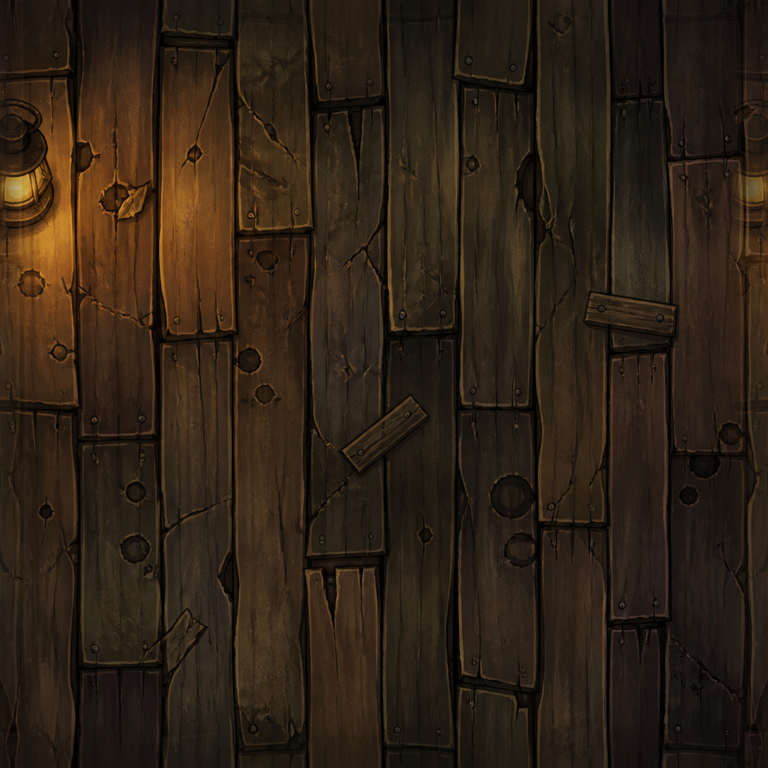
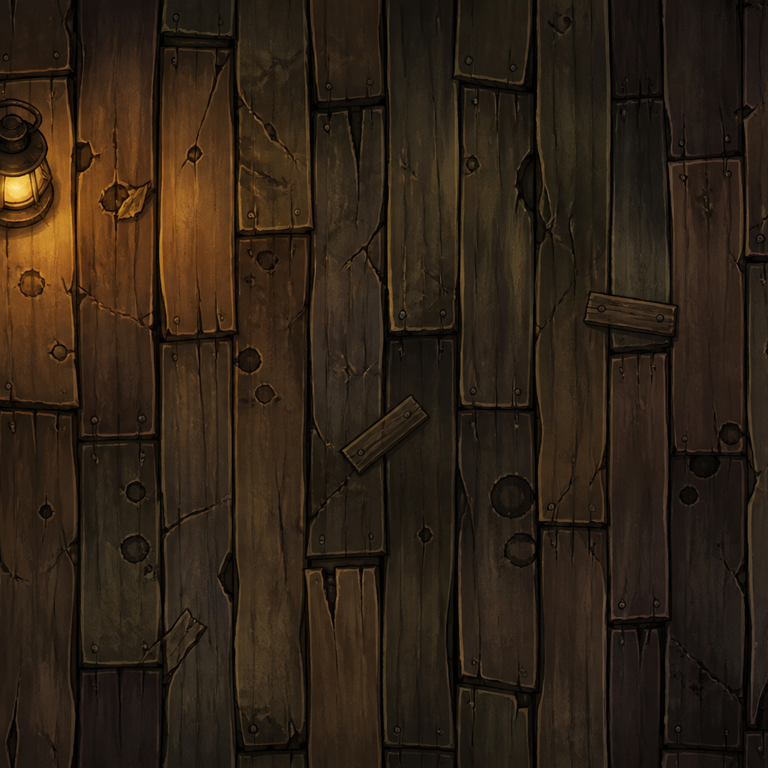
Lay water and path as whole sheets and drop the shore dots.
The river was still stamped per cell, and the bank used a row of
circles. Both read as a grid. Textures no longer mirror-blend.

Changed region(s): [[0.9375, 0.2188, 1.0, 0.4375], [0.0, 0.2188, 0.0625, 0.4375]]

diff --git a/src/scenes/draw.ts b/src/scenes/draw.ts
@@ -6,6 +6,7 @@ type Ctx = CanvasRenderingContext2D;
 
 export type Near = { n: string; s: string; e: string; w: string };
 export type DrawPart = "all" | "ground" | "prop";
+export type DrawSkip = { grass?: boolean; water?: boolean; path?: boolean };
 
 const FILL: Record<string, string> = {
   "#": "#2a1c16",
@@ -149,7 +150,7 @@ export function drawMeadow(g: Ctx, x: number, y: number, w: number, h: number): 
   return blitWrap(g, "grass", x, y, w, h);
 }
 
-function ground(g: Ctx, zone: string, ch: string, x: number, y: number, now: number, skipGrass = false): void {
+function ground(g: Ctx, zone: string, ch: string, x: number, y: number, now: number, skipGrass = false, skipPath = false): void {
   if (zone === "kitchen") {
     if (blitWrap(g, "wood", x, y, TILE, TILE)) {
       g.strokeStyle = "rgba(50,30,18,0.22)";
@@ -199,6 +200,7 @@ function ground(g: Ctx, zone: string, ch: string, x: number, y: number, now: num
     return;
   }
   if (ch === ",") {
+    if (skipPath) return;
     if (blitWrap(g, "path", x - 1, y - 1, TILE + 2, TILE + 2)) return;
     px(g, x, y, TILE, TILE, "#8a7a58");
     oval(g, x + 18, y + 18, 14, 6, "#7a6a48");
@@ -244,8 +246,8 @@ function water(g: Ctx, x: number, y: number, now: number): void {
   oval(g, x + 18, y + 17, 13, 6, `rgba(190,214,220,${pulse})`);
 }
 
-function dock(g: Ctx, x: number, y: number): void {
-  water(g, x, y, 0);
+function dock(g: Ctx, x: number, y: number, skipWater = false): void {
+  if (!skipWater) water(g, x, y, 0);
   if (blitFit(g, "dock", x - 10, y - 14, TILE + 20, TILE + 18)) return;
   px(g, x, y + 12, TILE, 16, "#6a4a28");
   g.strokeStyle = "#8a6a40";
@@ -570,9 +572,9 @@ export function drawPlot(g: Ctx, px0: number, py0: number, stage: number, seed?:
   oval(g, px0 + 24, py0 + 10, 4, 4, name.includes("姜") ? "#e8d080" : "#d4a24a");
 }
 
-function paintProp(g: Ctx, look: string, ch: string, x: number, y: number, now: number, zone: string, near?: Near): void {
+function paintProp(g: Ctx, look: string, ch: string, x: number, y: number, now: number, zone: string, near?: Near, skipWater = false): void {
   if (look === "tree") tree(g, x, y, ch === "t" || (zone === "wild" && ch === "T"), now);
-  else if (look === "dock") dock(g, x, y);
+  else if (look === "dock") dock(g, x, y, skipWater);
   else if (look === "fire") fire(g, x, y, now);
   else if (look === "cabin") cabin(g, x, y);
   else if (look === "inn") inn(g, x, y, ch === "I");
@@ -615,8 +617,9 @@ export function drawCell(
   zone = "valley",
   near?: Near,
   part: DrawPart = "all",
-  skipGrass = false,
+  skip: DrawSkip | boolean = {},
 ): void {
+  const flags: DrawSkip = typeof skip === "boolean" ? { grass: skip } : skip;
   g.imageSmoothingEnabled = true;
   if ("imageSmoothingQuality" in g) g.imageSmoothingQuality = "high";
   const look = tileLook(ch, zone);
@@ -631,22 +634,25 @@ export function drawCell(
     look === "water" ||
     look === "wall";
   if (part !== "prop") {
-    if (look === "water") water(g, x, y, now);
-    else if (look === "wall") wall(g, x, y, zone);
+    if (look === "water") {
+      if (!flags.water) water(g, x, y, now);
+    } else if (look === "wall") wall(g, x, y, zone);
     else if (look === "ground") px(g, x, y, TILE, TILE, fill || "#3d4a36");
     else if (floor) {
-      ground(g, zone, ch, x, y, now, skipGrass);
+      ground(g, zone, ch, x, y, now, !!flags.grass, !!flags.path);
       if (fill && fill !== cellFill(ch, zone)) {
         g.fillStyle = fill;
         g.globalAlpha = 0.2;
         g.fillRect(x, y, TILE, TILE);
         g.globalAlpha = 1;
       }
+    } else if (look === "dock" && flags.water) {
+      /* river sheet already covers the slip */
     } else {
-      ground(g, zone, look === "plot" ? "," : ".", x, y, now, skipGrass);
+      ground(g, zone, look === "plot" ? "," : ".", x, y, now, !!flags.grass, !!flags.path);
     }
   }
-  if (part !== "ground" && !floor && look !== "plot") paintProp(g, look, ch, x, y, now, zone, near);
+  if (part !== "ground" && !floor && look !== "plot") paintProp(g, look, ch, x, y, now, zone, near, !!flags.water);
 }
 
 function heldChip(name: string): string {
@@ -1023,14 +1029,14 @@ export interface FieldCluster {
   h: number;
 }
 
-export function plotClusters(rows: string[]): FieldCluster[] {
+export function fillClusters(rows: string[], ok: (ch: string) => boolean): FieldCluster[] {
   const seen = new Set<number>();
   const mw = rows[0]?.length ?? 0;
   const out: FieldCluster[] = [];
   for (let y = 0; y < rows.length; y++) {
     for (let x = 0; x < mw; x++) {
       const key = y * mw + x;
-      if (rows[y][x] !== "P" || seen.has(key)) continue;
+      if (!ok(rows[y][x]) || seen.has(key)) continue;
       const stack = [[x, y]];
       seen.add(key);
       let minX = x;
@@ -1052,7 +1058,7 @@ export function plotClusters(rows: string[]): FieldCluster[] {
           const nx = cx + dx;
           const ny = cy + dy;
           const nk = ny * mw + nx;
-          if (rows[ny]?.[nx] === "P" && !seen.has(nk)) {
+          if (ok(rows[ny]?.[nx] ?? "") && !seen.has(nk)) {
             seen.add(nk);
             stack.push([nx, ny]);
           }
@@ -1064,6 +1070,14 @@ export function plotClusters(rows: string[]): FieldCluster[] {
   return out;
 }
 
+export function plotClusters(rows: string[]): FieldCluster[] {
+  return fillClusters(rows, (ch) => ch === "P");
+}
+
+export function drawSheet(g: Ctx, name: string, c: FieldCluster): boolean {
+  return blitWrap(g, name, c.x * TILE - 1, c.y * TILE - 1, c.w * TILE + 2, c.h * TILE + 2);
+}
+
 export function drawField(g: Ctx, c: FieldCluster): void {
   const x = c.x * TILE;
   const y = c.y * TILE;
@@ -1071,16 +1085,16 @@ export function drawField(g: Ctx, c: FieldCluster): void {
   const h = c.h * TILE;
   g.save();
   g.beginPath();
-  g.roundRect(x + 1, y + 2, w - 2, h - 4, 8);
+  g.roundRect(x + 2, y + 3, w - 4, h - 6, 14);
   g.clip();
   for (let ty = 0; ty < c.h; ty++) {
     for (let tx = 0; tx < c.w; tx++) plotSoil(g, x + tx * TILE, y + ty * TILE);
   }
   g.restore();
-  g.strokeStyle = "rgba(30,18,10,0.32)";
+  g.strokeStyle = "rgba(30,18,10,0.22)";
   g.lineWidth = 2;
   g.beginPath();
-  g.roundRect(x + 1, y + 2, w - 2, h - 4, 8);
+  g.roundRect(x + 2, y + 3, w - 4, h - 6, 14);
   g.stroke();
 }
 
@@ -1097,56 +1111,31 @@ export function drawFringe(g: Ctx, ch: string, near: Near, x: number, y: number,
   const wash = (x0: number, y0: number, x1: number, y1: number, from: string) => {
     const grd = g.createLinearGradient(x0, y0, x1, y1);
     grd.addColorStop(0, from);
-    grd.addColorStop(0.55, from.replace(/[\d.]+\)$/, "0.12)"));
     grd.addColorStop(1, "rgba(0,0,0,0)");
     g.fillStyle = grd;
     g.fillRect(Math.min(x0, x1), Math.min(y0, y1), x0 === x1 ? TILE : Math.abs(x1 - x0), y0 === y1 ? TILE : Math.abs(y1 - y0));
   };
-  const scallop = (cx: number, cy: number, rx: number, ry: number, c: string) => oval(g, cx, cy, rx, ry, c);
   if (wet(look)) {
-    if (!wet(n)) {
-      wash(x, y, x, y + 20, "rgba(47,90,56,0.42)");
-      scallop(x + 8, y + 2, 11, 7, "rgba(47,90,56,0.22)");
-      scallop(x + 22, y + 3, 12, 8, "rgba(58,80,48,0.2)");
-    }
-    if (!wet(s)) {
-      wash(x, y + TILE, x, y + TILE - 20, "rgba(47,90,56,0.38)");
-      scallop(x + 10, y + 34, 12, 7, "rgba(47,90,56,0.2)");
-      scallop(x + 26, y + 33, 10, 6, "rgba(58,80,48,0.18)");
-    }
-    if (!wet(e)) wash(x + TILE, y, x + TILE - 18, y, "rgba(47,90,56,0.32)");
-    if (!wet(w)) wash(x, y, x + 18, y, "rgba(47,90,56,0.32)");
+    if (!wet(n)) wash(x, y, x, y + 18, "rgba(47,90,56,0.36)");
+    if (!wet(s)) wash(x, y + TILE, x, y + TILE - 18, "rgba(47,90,56,0.32)");
+    if (!wet(e)) wash(x + TILE, y, x + TILE - 16, y, "rgba(47,90,56,0.26)");
+    if (!wet(w)) wash(x, y, x + 16, y, "rgba(47,90,56,0.26)");
     void now;
     return;
   }
   if (look === "path" || look === "plot") {
-    if (n === "grass") wash(x, y, x, y + 14, "rgba(47,90,56,0.36)");
-    if (s === "grass") wash(x, y + TILE, x, y + TILE - 14, "rgba(47,90,56,0.36)");
-    if (w === "grass") wash(x, y, x + 14, y, "rgba(47,90,56,0.3)");
-    if (e === "grass") wash(x + TILE, y, x + TILE - 14, y, "rgba(47,90,56,0.3)");
-    if (wet(n)) {
-      wash(x, y, x, y + 18, "rgba(26,68,88,0.34)");
-      scallop(x + 12, y + 2, 14, 8, "rgba(26,68,88,0.2)");
-      scallop(x + 26, y + 3, 11, 7, "rgba(20,50,70,0.16)");
-    }
-    if (wet(s)) {
-      wash(x, y + TILE, x, y + TILE - 18, "rgba(26,68,88,0.34)");
-      scallop(x + 10, y + 34, 14, 8, "rgba(26,68,88,0.2)");
-      scallop(x + 24, y + 33, 12, 7, "rgba(20,50,70,0.16)");
-    }
+    if (n === "grass") wash(x, y, x, y + 16, "rgba(47,90,56,0.32)");
+    if (s === "grass") wash(x, y + TILE, x, y + TILE - 16, "rgba(47,90,56,0.32)");
+    if (w === "grass") wash(x, y, x + 14, y, "rgba(47,90,56,0.24)");
+    if (e === "grass") wash(x + TILE, y, x + TILE - 14, y, "rgba(47,90,56,0.24)");
+    if (wet(n)) wash(x, y, x, y + 16, "rgba(26,68,88,0.3)");
+    if (wet(s)) wash(x, y + TILE, x, y + TILE - 16, "rgba(26,68,88,0.3)");
   }
   if (look === "grass" && (wet(n) || wet(s) || wet(e) || wet(w))) {
-    if (wet(s)) {
-      wash(x, y + TILE, x, y + TILE - 22, "rgba(26,68,88,0.36)");
-      scallop(x + 8, y + 32, 13, 8, "rgba(26,68,88,0.2)");
-      scallop(x + 22, y + 33, 12, 7, "rgba(20,50,70,0.16)");
-    }
-    if (wet(n)) {
-      wash(x, y, x, y + 22, "rgba(26,68,88,0.32)");
-      scallop(x + 14, y + 4, 13, 8, "rgba(26,68,88,0.18)");
-    }
-    if (wet(e)) wash(x + TILE, y, x + TILE - 20, y, "rgba(26,68,88,0.28)");
-    if (wet(w)) wash(x, y, x + 20, y, "rgba(26,68,88,0.28)");
+    if (wet(s)) wash(x, y + TILE, x, y + TILE - 20, "rgba(26,68,88,0.3)");
+    if (wet(n)) wash(x, y, x, y + 20, "rgba(26,68,88,0.26)");
+    if (wet(e)) wash(x + TILE, y, x + TILE - 18, y, "rgba(26,68,88,0.22)");
+    if (wet(w)) wash(x, y, x + 18, y, "rgba(26,68,88,0.22)");
   }
 }
 

diff --git a/src/scenes/play.ts b/src/scenes/play.ts
@@ -17,6 +17,8 @@ import {
   drawMeadow,
   drawNightVignette,
   drawPlot,
+  drawSheet,
+  fillClusters,
   drawSky,
   houseClusters,
   isHouseLook,
@@ -135,6 +137,14 @@ export function mountPlay(root: HTMLElement, ctx: GameContext): () => void {
       snap.zone !== "kitchen" &&
       snap.zone !== "mine" &&
       drawMeadow(g, x0 * TILE, y0 * TILE, (x1 - x0 + 1) * TILE, (y1 - y0 + 1) * TILE);
+    let waterSheet = false;
+    let pathSheet = false;
+    for (const pool of fillClusters(rows, (ch) => ch === "~" || ch === "D")) {
+      if (drawSheet(g, "water", pool)) waterSheet = true;
+    }
+    for (const lane of fillClusters(rows, (ch) => ch === ",")) {
+      if (drawSheet(g, "path", lane)) pathSheet = true;
+    }
     for (let y = y0; y <= y1; y++) {
       for (let x = x0; x <= x1; x++) {
         const inside = y >= 0 && y < mh && x >= 0 && x < mw;
@@ -156,10 +166,11 @@ export function mountPlay(root: HTMLElement, ctx: GameContext): () => void {
         const look = tileLook(ch, snap.zone);
         const tall = isTallLook(look);
         const fill = cellFill(ch, snap.zone);
+        const skip = { grass: meadow, water: waterSheet, path: pathSheet };
         if (look === "grass" && meadow) {
           /* meadow already covers this cell */
-        } else if (tall) drawCell(g, ch, px, py, fill, now, snap.zone, near, "ground", meadow);
-        else drawCell(g, ch, px, py, fill, now, snap.zone, near, "all", meadow);
+        } else if (tall) drawCell(g, ch, px, py, fill, now, snap.zone, near, "ground", skip);
+        else drawCell(g, ch, px, py, fill, now, snap.zone, near, "all", skip);
         if (!hidden) drawFringe(g, ch, near, px, py, snap.zone, now);
         if (hidden) {
           g.fillStyle = "rgba(6,10,16,0.78)";
@@ -175,7 +186,7 @@ export function mountPlay(root: HTMLElement, ctx: GameContext): () => void {
         if (!hidden && tall && !isHouseLook(look)) {
           sprites.push({
             y: py + TILE,
-            draw: () => drawCell(g, ch, px, py, fill, now, world.zone, near, "prop"),
+            draw: () => drawCell(g, ch, px, py, fill, now, world.zone, near, "prop", skip),
           });
         }
       }

diff --git a/src/scenes/look.test.ts b/src/scenes/look.test.ts
@@ -10,6 +10,7 @@ import {
   drawPlot,
   houseClusters,
   isTallLook,
+  fillClusters,
   plotClusters,
   plotIndex,
   shade,
@@ -176,6 +177,8 @@ describe("look", () => {
   it("joins valley plots into one field", () => {
     const fields = plotClusters(VALLEY);
     assert.ok(fields.some((f) => f.w === 4 && f.h === 3));
+    const water = fillClusters(VALLEY, (ch) => ch === "~" || ch === "D");
+    assert.ok(water.some((p) => p.w >= 8 && p.h >= 2));
   });
 
   it("marks trees and stalls tall so a person can walk behind them", () => {

diff --git a/scripts/process-art.py b/scripts/process-art.py
@@ -96,45 +96,9 @@ def square_tex(im: Image.Image) -> Image.Image:
     return im.crop((x, y, x + side, y + side))
 
 
-def seam_blend(im: Image.Image, band: int = 56) -> Image.Image:
-    """Crossfade opposite edges so wrap sampling does not flash a tile cut."""
-    im = im.convert("RGB")
-    w, h = im.size
-    band = min(band, w // 4, h // 4)
-    px = im.load()
-    for y in range(h):
-        for i in range(band):
-            t = i / band
-            fade = (1.0 - t) * 0.5
-            r1, g1, b1 = px[i, y]
-            r2, g2, b2 = px[w - 1 - i, y]
-            px[i, y] = (
-                int(r1 * (1 - fade) + r2 * fade),
-                int(g1 * (1 - fade) + g2 * fade),
-                int(b1 * (1 - fade) + b2 * fade),
-            )
-            px[w - 1 - i, y] = (
-                int(r2 * (1 - fade) + r1 * fade),
-                int(g2 * (1 - fade) + g1 * fade),
-                int(b2 * (1 - fade) + b1 * fade),
-            )
-    for x in range(w):
-        for i in range(band):
-            t = i / band
-            fade = (1.0 - t) * 0.5
-            r1, g1, b1 = px[x, i]
-            r2, g2, b2 = px[x, h - 1 - i]
-            px[x, i] = (
-                int(r1 * (1 - fade) + r2 * fade),
-                int(g1 * (1 - fade) + g2 * fade),
-                int(b1 * (1 - fade) + b2 * fade),
-            )
-            px[x, h - 1 - i] = (
-                int(r2 * (1 - fade) + r1 * fade),
-                int(g2 * (1 - fade) + g1 * fade),
-                int(b2 * (1 - fade) + b1 * fade),
-            )
-    return im.filter(ImageFilter.GaussianBlur(radius=0.35))
+def soften_tex(im: Image.Image) -> Image.Image:
+    """Keep the painting, knock off only the hardest generation grain."""
+    return im.convert("RGB").filter(ImageFilter.GaussianBlur(radius=0.28))
 
 
 def process(path: Path) -> None:
@@ -143,7 +107,7 @@ def process(path: Path) -> None:
     before = path.stat().st_size
     src = im.size
     if name.startswith("tex-"):
-        out = shrink(seam_blend(square_tex(im.convert("RGB"))), MAX_TEX)
+        out = shrink(soften_tex(square_tex(im.convert("RGB"))), MAX_TEX)
         out.save(path, "PNG", optimize=True)
     else:
         # Shrink a little first so chroma-key is not a multi-second pixel walk.
